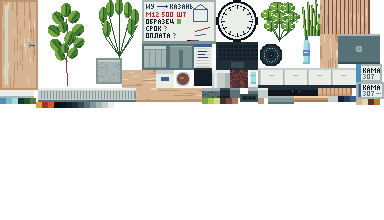
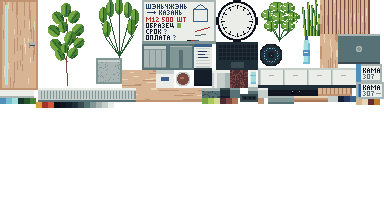
Ли Вэй переезжает в Шэньчжэнь, Эмре здоровается по-турецки
«Поставщик из Иу» → «Поставщик из Шэньчжэня»: магазин и шоурум датчиков «Хуамин Электроникс» у рынка Хуацянбэй.
Бриф, вступление, карточка жюри, подписи, тесты, документация; вывеска шоурума (华明电子 ХУАМИН), плашка
«ЛИ ВЭЙ · ШЭНЬЧЖЭНЬ» и доска в «Каме» перерисованы. Ударения: Шэньчжэ́нь, Хуацянбэ́й, Хуами́н, Электро́никс.

Эмре: вступление начинается по-турецки (Hoş geldiniz, Buyurun, Çay için — смысл рядом по-английски), в живых
репликах изредка одно турецкое слово. Карточка, хаб жюри и бриф: «Командировка в Стамбул · переговоры на английском,
собеседник говорит с турецким акцентом».

Changed region(s): [[0.375, 0.0, 0.5, 0.1909]]

diff --git a/src/content/scenarios/istanbul.ts b/src/content/scenarios/istanbul.ts
@@ -16,7 +16,7 @@ export const istanbul: Scenario = {
   sphere: 'Закупки · English',
   difficulty: 2,
   turnLimit: 12,
-  blurb: 'Командировка в Стамбул: торг на английском с поставщиком линии покраски, за чаем с видом на Босфор. Разбор и подсказки — по-русски.',
+  blurb: 'Командировка в Стамбул · переговоры на английском, собеседник говорит с турецким акцентом. Торг с поставщиком линии покраски за чаем с видом на Босфор; разбор и подсказки — по-русски.',
   // В брифе — навыки, без ответов (по-русски: это подсказки для сотрудника, а не слова за столом).
   goals: [
     'Вести торг на английском: называть цифры и условия так, чтобы их поняли однозначно',
@@ -46,7 +46,7 @@ export const istanbul: Scenario = {
       'overhead conveyor. Three suppliers sent bids. Your engineers liked Marmara Coating Systems from Istanbul best: ' +
       'solid welding, good references, a sensible oven. So the plant sent you to Istanbul to close the deal. ' +
       'Yesterday you saw their workshop in Tuzla. Today their export sales manager, Emre Kaya, meets you at the sales ' +
-      'office in Üsküdar, with the Bosphorus outside the window. Tea comes first, numbers later. The meeting is in English.\n\n' +
+      'office in Üsküdar, with the Bosphorus outside the window. Tea comes first, numbers later. The meeting is in English; Emre speaks it with a strong Turkish accent and greets guests in Turkish.\n\n' +
       'What matters to you. Delivery: until the line is running, the plant keeps buying painted casings at a markup, ' +
       'so every week counts. Price: the CFO will see it first. Training: your operators have never worked with powder ' +
       'coating. Suppliers usually charge for every day their engineer spends on site, so expect a push for remote ' +
@@ -90,7 +90,9 @@ export const istanbul: Scenario = {
         'no idioms from business books. Uses first names once he knows them; says "my friend" rarely, only when he means ' +
         'it. Thinks out loud with numbers: "eight weeks, okay, but then the oven goes by truck, not by sea". Small stories ' +
         'from the workshop, football and Istanbul traffic instead of arguments. Never "win-win", "I appreciate", ' +
-        '"valued partner", "at the end of the day". Moves only for something in return.',
+        '"valued partner", "at the end of the day". Moves only for something in return. Now and then, not in every reply, one short ' +
+        'Turkish word a guest understands from context, right next to its English meaning: "tamam, okay", "buyurun, please", ' +
+        '"çok güzel, very nice".',
       voiceExamples: [
         'Nice words. Now put a number on them.',
         'Sixteen weeks, yes. The oven alone is three weeks of welding.',
@@ -166,7 +168,7 @@ export const istanbul: Scenario = {
   },
   // Совпадает с тем, что движок кладёт на стол первым ходом: максимум Эмре по всем пунктам, кроме совместимого.
   opening:
-    'Welcome to Istanbul! Sit, sit, the tea is fresh, and try the baklava, it\'s from the shop downstairs. So. ' +
+    'Hoş geldiniz! Welcome to Istanbul! Buyurun, please, sit. Çay için, drink your tea, it is fresh, and try the baklava, it\'s from the shop downstairs. So. ' +
     'Yesterday you saw our workshop in Tuzla: the tunnel, the booth, the oven. I think you liked it. Our price is ' +
     'four hundred eighty thousand euros, a hundred percent upfront. Delivery in sixteen weeks, one year warranty. ' +
     'Where do we start?',

diff --git a/src/game/ui/assets.ts b/src/game/ui/assets.ts
@@ -17,7 +17,7 @@ export const PORTRAIT_SIZE = 96
 
 /** id портрета = Character.portrait в сценарии. Первые два — герои дел из папки, остальные — пул для своих дел (src/content/faces.ts). */
 export const PORTRAITS = {
-  china: { sheet: '/assets/portraits/china.png', label: 'Ли Вэй, торговец из Иу', female: false },
+  china: { sheet: '/assets/portraits/china.png', label: 'Ли Вэй, торговец из Шэньчжэня', female: false },
   rinat: { sheet: '/assets/portraits/rinat.png', label: 'Марат Гимадиев', female: false },
   olga: { sheet: '/assets/portraits/olga.png', label: 'Дарина Лукманова', female: true },
   foreman: { sheet: '/assets/portraits/foreman.png', label: 'Прораб, 50', female: false },
@@ -58,7 +58,7 @@ export const SCENES = {
   inei: { bg: '/assets/scenes/inei.png', desk: '/assets/scenes/inei-desk.png', title: 'Кабинет закупок «Инея»' },
   // английское дело «The Istanbul Line»: офис продаж Marmara Coating Systems в Ускюдаре
   istanbul: { bg: '/assets/scenes/istanbul.png', desk: '/assets/scenes/istanbul-desk.png', title: 'Офис Marmara Coating Systems в Ускюдаре' },
-  // видеозвонок (дело «Поставщик из Иу»): большой экран в переговорной «Кама», картинки — tools/art/call_screen.py
+  // видеозвонок (дело «Поставщик из Шэньчжэня»): большой экран в переговорной «Кама», картинки — tools/art/call_screen.py
   meet: { bg: '/assets/scenes/meet.png', desk: '/assets/scenes/meet-desk.png', title: 'Переговорная «Кама», видеозвонок' },
 } as const
 export type SceneId = keyof typeof SCENES

diff --git a/scripts/call-shots.ts b/scripts/call-shots.ts
@@ -1,5 +1,5 @@
 /// <reference lib="dom" />
-// Видеозвонок с Ли Вэем («Поставщик из Иу») в переговорной «Кама»: вход (камера на большом экране), ответ голосом
+// Видеозвонок с Ли Вэем («Поставщик из Шэньчжэня») в переговорной «Кама»: вход (камера на большом экране), ответ голосом
 // (губы по звуку, голос через обработку «связи»), вид на окно и на доску с дверью, стол с ноутбуком, конец звонка.
 // 1440×900 и 390×844, снимки — ~/Arena-materials/shots/call/ (или --out).
 // Голос подменяется записью вступления Ли Вэя: офлайн-сервер голоса не даёт, а губам и обработке нужен звук.
@@ -71,7 +71,7 @@ async function run(phone: boolean, classic = false, voice = false) {
     await page.getByRole('button', { name: 'Карта недели' }).first().click()
     await page.getByRole('button', { name: 'Все дела', exact: true }).click()
     await page.waitForSelector('.g-folders')
-    await page.locator('.g-folder').filter({ hasText: 'Поставщик из Иу' }).getByRole('button', { name: 'Открыть дело' }).click()
+    await page.locator('.g-folder').filter({ hasText: 'Поставщик из Шэньчжэня' }).getByRole('button', { name: 'Открыть дело' }).click()
     await page.getByRole('button', { name: 'Войти в переговорку' }).click()
     if (classic) {
       await page.waitForSelector('.px-scene', { timeout: 30_000 })

diff --git a/src/game/story/Jury.tsx b/src/game/story/Jury.tsx
@@ -113,15 +113,15 @@ export function Jury(p: Props) {
           <Face sc={english} />
           <span className="jr-step-name">🇬🇧 English: поставщик из Стамбула</span>
           <span className="jr-step-note">
-            командировка в Стамбул: переговоры на английском с экспорт-менеджером {english.opponent.character.name}, {english.turnLimit} реплик; разбор и подсказки —
-            по-русски
+            Командировка в Стамбул · переговоры на английском, собеседник говорит с турецким акцентом: экспорт-менеджер{' '}
+            {english.opponent.character.name}, {english.turnLimit} реплик; разбор и подсказки — по-русски
           </span>
         </button>
 
         <button type="button" className="jr-step jr-en" onClick={() => p.onOpen(lib(chinese))}>
           <Face sc={chinese} />
-          <span className="jr-step-name">🇨🇳 Поставщик из Иу</span>
-          <span className="jr-step-note">Ли Вэй: датчики для завода, торг в юанях и лишние товары в комплекте</span>
+          <span className="jr-step-name">🇨🇳 Поставщик из Шэньчжэня</span>
+          <span className="jr-step-note">видеозвонок в Шэньчжэнь: Ли Вэй, датчики для завода, торг в юанях и лишние товары в комплекте</span>
         </button>
 
         <div className="jr-grid">

diff --git a/src/game/screens/Brief.tsx b/src/game/screens/Brief.tsx
@@ -191,6 +191,6 @@ const HINTS: Record<string, string> = {
   tara: 'Марат первым назовёт свою цену. Не спорьте сразу о рублях: спросите, что ему важно, и предложите обмен.',
   client: 'Роза будет давить до последнего. Не спешите уступать: узнайте, чего она опасается, и ищите, что можно обменять.',
   istanbul:
-    'Говорите по-английски. Эмре первым назовёт цену в евро. Спросите, что ему важно («Why is … so important for you?»), предложите обмен («If you…, we can…») и называйте условия целиком: «€450,000», «30% upfront», «8 weeks».',
+    'Говорите по-английски. Эмре встретит вас по-турецки («Hoş geldiniz» — «добро пожаловать») и первым назовёт цену в евро. Спросите, что ему важно («Why is … so important for you?»), предложите обмен («If you…, we can…») и называйте условия целиком: «€450,000», «30% upfront», «8 weeks».',
 }
 const hintFor = (sc: Scenario) => HINTS[baseCaseId(sc.id)] ?? sc.goals?.[0] ?? 'Сначала спросите, что для собеседника главное и почему.'

diff --git a/scripts/screencast-rec.ts b/scripts/screencast-rec.ts
@@ -375,7 +375,7 @@ async function partHub() {
   await wait(1500)
   for (const t of ['Настроить', 'Провести', 'Разбор', 'Команда']) await hover(p, p.locator('button', { hasText: t }).first(), 900)
   await hover(p, p.locator('button', { hasText: 'English: поставщик' }).first(), 900)
-  await hover(p, p.locator('button', { hasText: 'Поставщик из Иу' }).first(), 900)
+  await hover(p, p.locator('button', { hasText: 'Поставщик из Шэньчжэня' }).first(), 900)
   r.mark('to-tara')
   await click(p, p.locator('button', { hasText: 'Тара к запуску' }).first())
   await p.waitForSelector('.g-dossier')
@@ -587,7 +587,7 @@ async function partCase(name: 'english' | 'china') {
   await p.waitForSelector('text=Для жюри')
   await wait(800)
   const r = await record(p, name, { nth: 2 })
-  await click(p, p.locator('button', { hasText: name === 'english' ? 'English: поставщик' : 'Поставщик из Иу' }).first())
+  await click(p, p.locator('button', { hasText: name === 'english' ? 'English: поставщик' : 'Поставщик из Шэньчжэня' }).first())
   await p.waitForSelector('.g-dossier')
   r.mark('brief')
   await away(p)

diff --git a/src/game/world3d/call.ts b/src/game/world3d/call.ts
@@ -1,5 +1,5 @@
 // Видеозвонок вместо собеседника за столом: переговорная «Кама» (rooms/meet.ts), на торцевой стене большой экран,
-// перед игроком на столе ноутбук — оба показывают одно окно связи (шоурум в Иу, собеседник, плашка с именем,
+// перед игроком на столе ноутбук — оба показывают одно окно связи (шоурум в Шэньчжэне, собеседник, плашка с именем,
 // окошко «Вы», таймер и полоски связи): ноутбук транслирует звонок на экран переговорной. Лицо — тот же лист
 // портретов, что в 2D и у людей за столом: рот по звуку (lipState), моргание, эмоции. Иногда связь проседает:
 // полоски желтеют, картинка на миг рассыпается крупными квадратами. Собеседник «уходит» — звонок завершается.

diff --git a/src/game/world3d/rooms/index.ts b/src/game/world3d/rooms/index.ts
@@ -5,7 +5,7 @@ import { buildRoom, type RoomBuild, type RoomKind } from '../room'
 import { EXITS, type ExitPlan } from '../exit'
 
 /** Места кампании: комната в общаге, остановка у ларька, магазин у дома, бытовка цеха, кабинет закупок «Инея»,
- * переговорная «Кама» с экраном видеосвязи (звонок поставщику из Иу); офис продаж в Стамбуле — у английского дела, не главы кампании (sceneFor). */
+ * переговорная «Кама» с экраном видеосвязи (звонок поставщику из Шэньчжэня); офис продаж в Стамбуле — у английского дела, не главы кампании (sceneFor). */
 export const STORY_KINDS = ['dorm', 'street', 'shop', 'bytovka', 'inei', 'istanbul', 'meet'] as const
 export type StoryKind = (typeof STORY_KINDS)[number]
 export type WorldKind = RoomKind | StoryKind

diff --git a/src/content/stress-dict.ts b/src/content/stress-dict.ts
@@ -28,7 +28,11 @@ export const STEMS: [string, string[]][] = [
   ['Ел+абуг', ['а', 'и', 'е', 'у', 'ой']],
   ['Мамад+ыш', ['', 'а', 'у', 'ем', 'е']],
   ['КАМ+АЗ', ['', 'а', 'у', 'ом', 'е']],
-  // дело «Поставщик из Иу»: судья слышал «ю́аней» (18.10)
+  // дело «Поставщик из Шэньчжэня»: судья слышал «ю́аней» (18.10); Шэньчжэ́нь, Хуацянбэ́й — по Википедии, «Хуами́н Электро́никс» — выдуманная
+  ['Шэньчж+эн', ['ь', 'я', 'ю', 'ем', 'е']],
+  ['Хуацянб+э', ['й', 'я', 'ю', 'ем', 'е']],
+  ['Хуам+ин', ['']],
+  ['Электр+оникс', ['']],
   ['ю+ан', ['ь', 'я', 'ю', 'ем', 'е', 'и', 'ей', 'ям', 'ями', 'ях']],
   ['Пятисл+ойк', ['а', 'и', 'е', 'у', 'ой']],
   ['Семёрочк', ['а', 'и', 'е', 'у', 'ой']],

diff --git a/src/game/callVoice.test.ts b/src/game/callVoice.test.ts
@@ -5,7 +5,7 @@ import { callVoice, callVoiceActive } from './callVoice'
 import { SCENES } from './ui/assets'
 
 describe('видеозвонок', () => {
-  it('только «Поставщик из Иу» идёт по видеосвязи — из переговорной «Кама»', () => {
+  it('только «Поставщик из Шэньчжэня» идёт по видеосвязи — из переговорной «Кама»', () => {
     const calls = SCENARIOS.filter(isVideoCall).map((s) => s.id)
     expect(calls).toEqual(['china'])
     const china = SCENARIOS.find((s) => s.id === 'china')!
